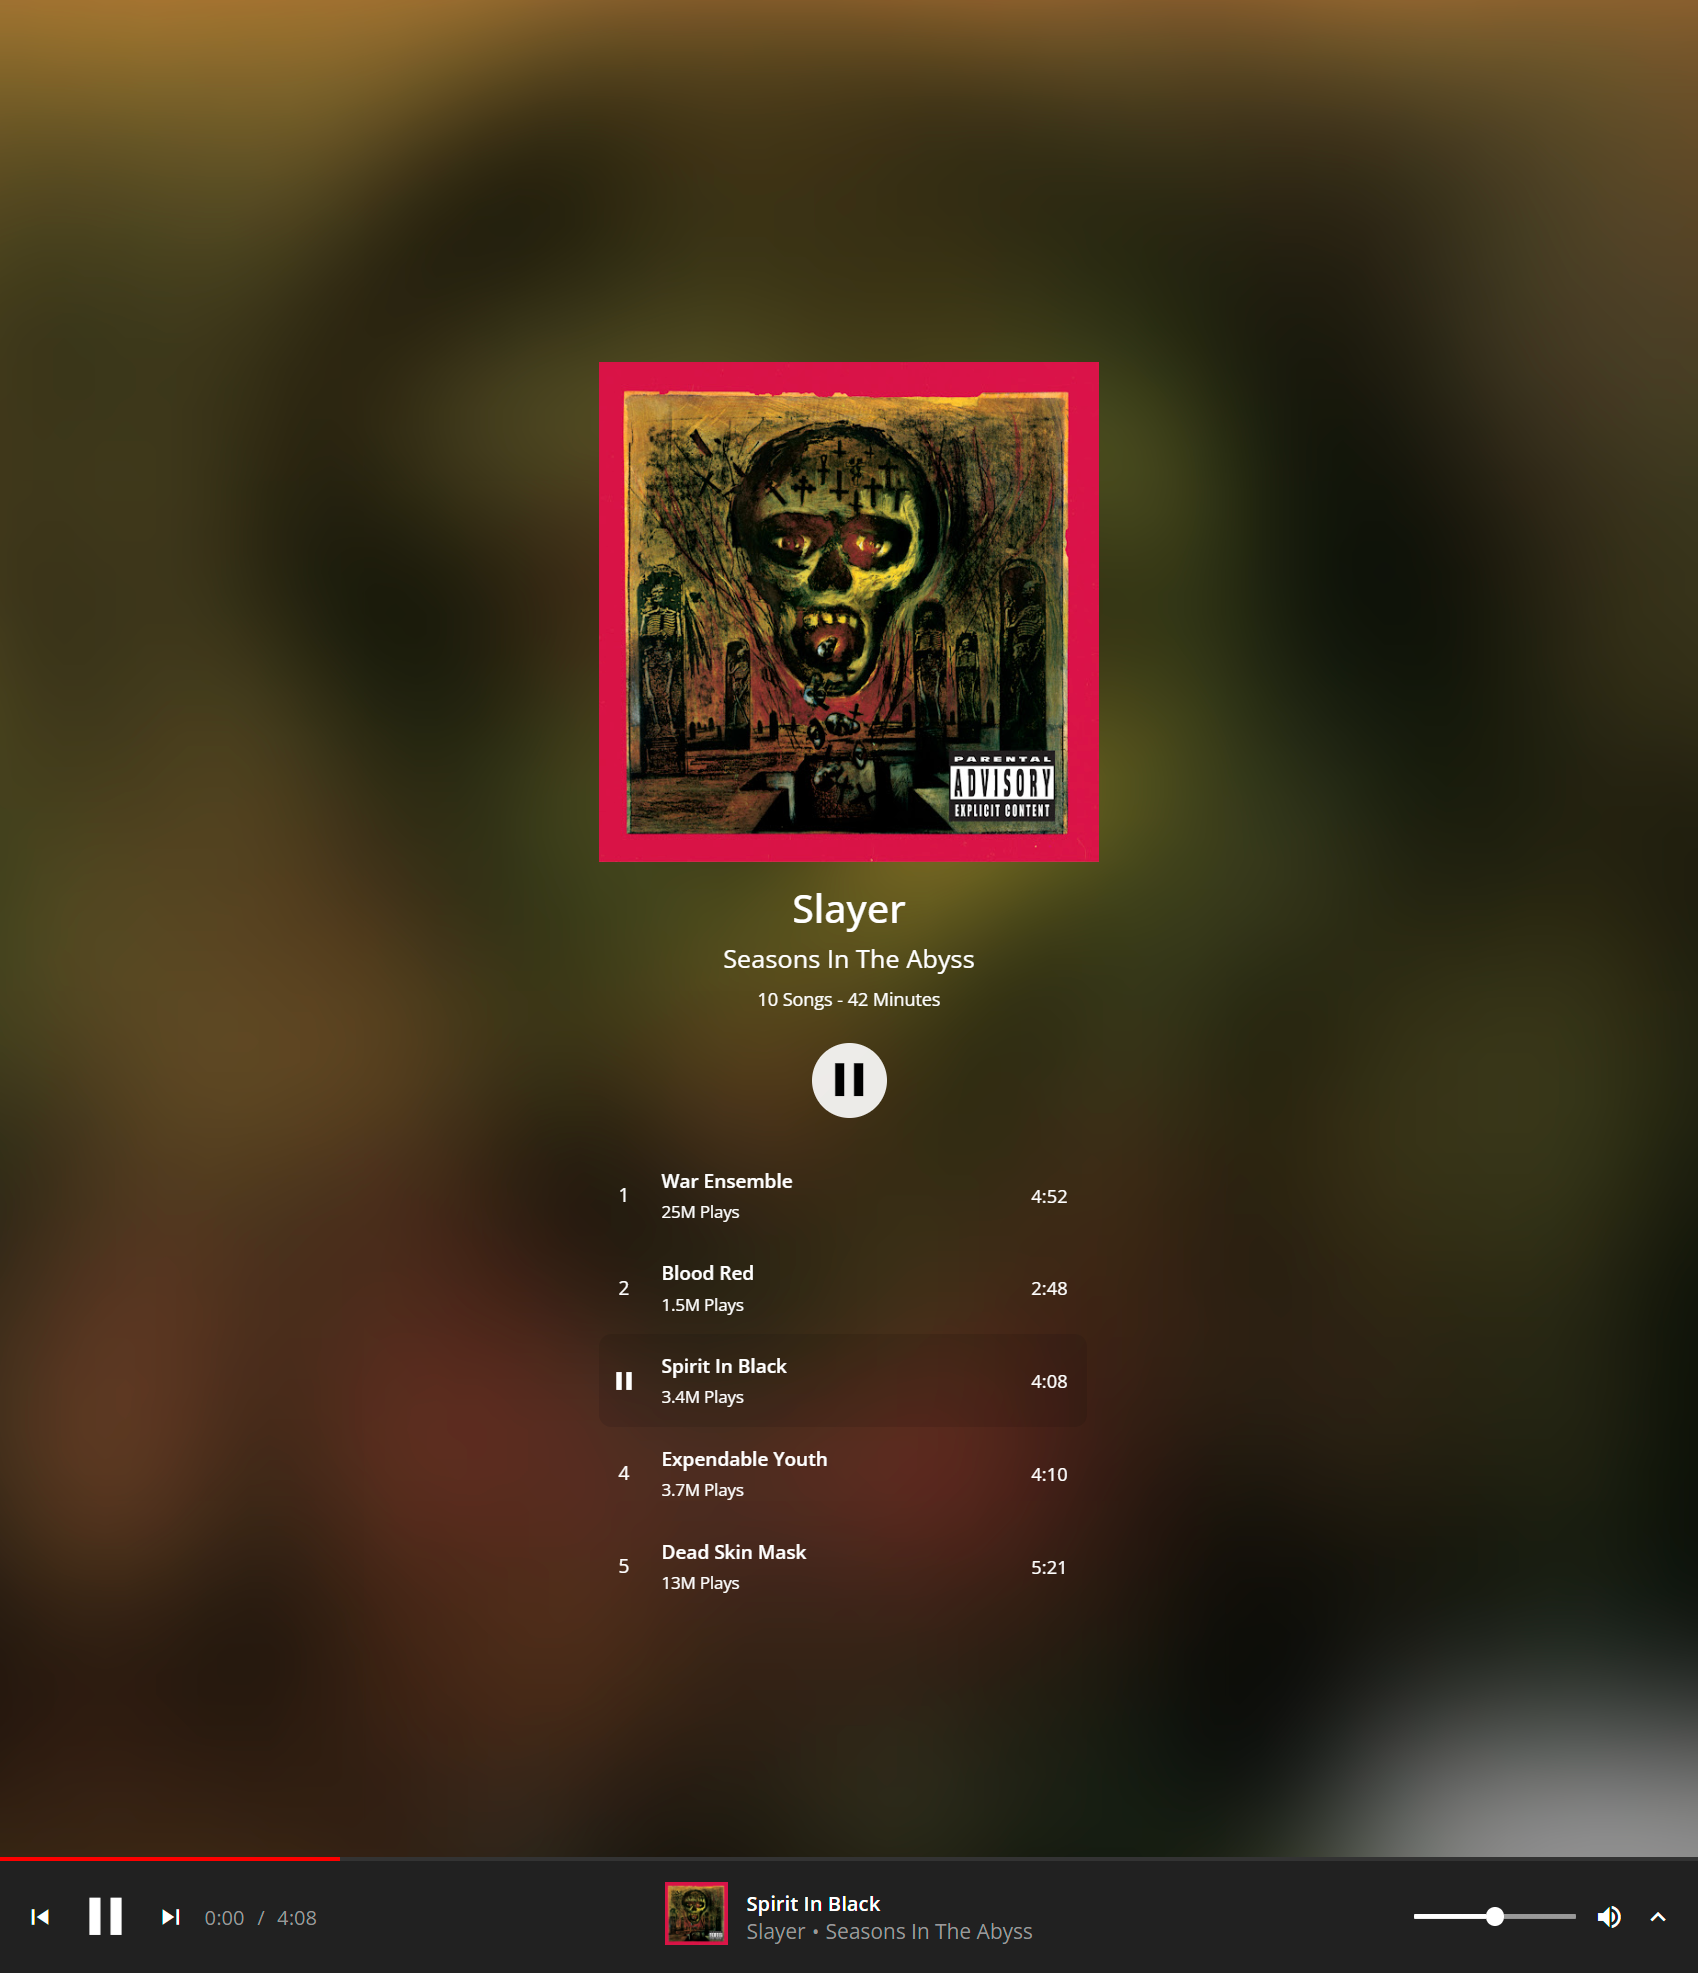
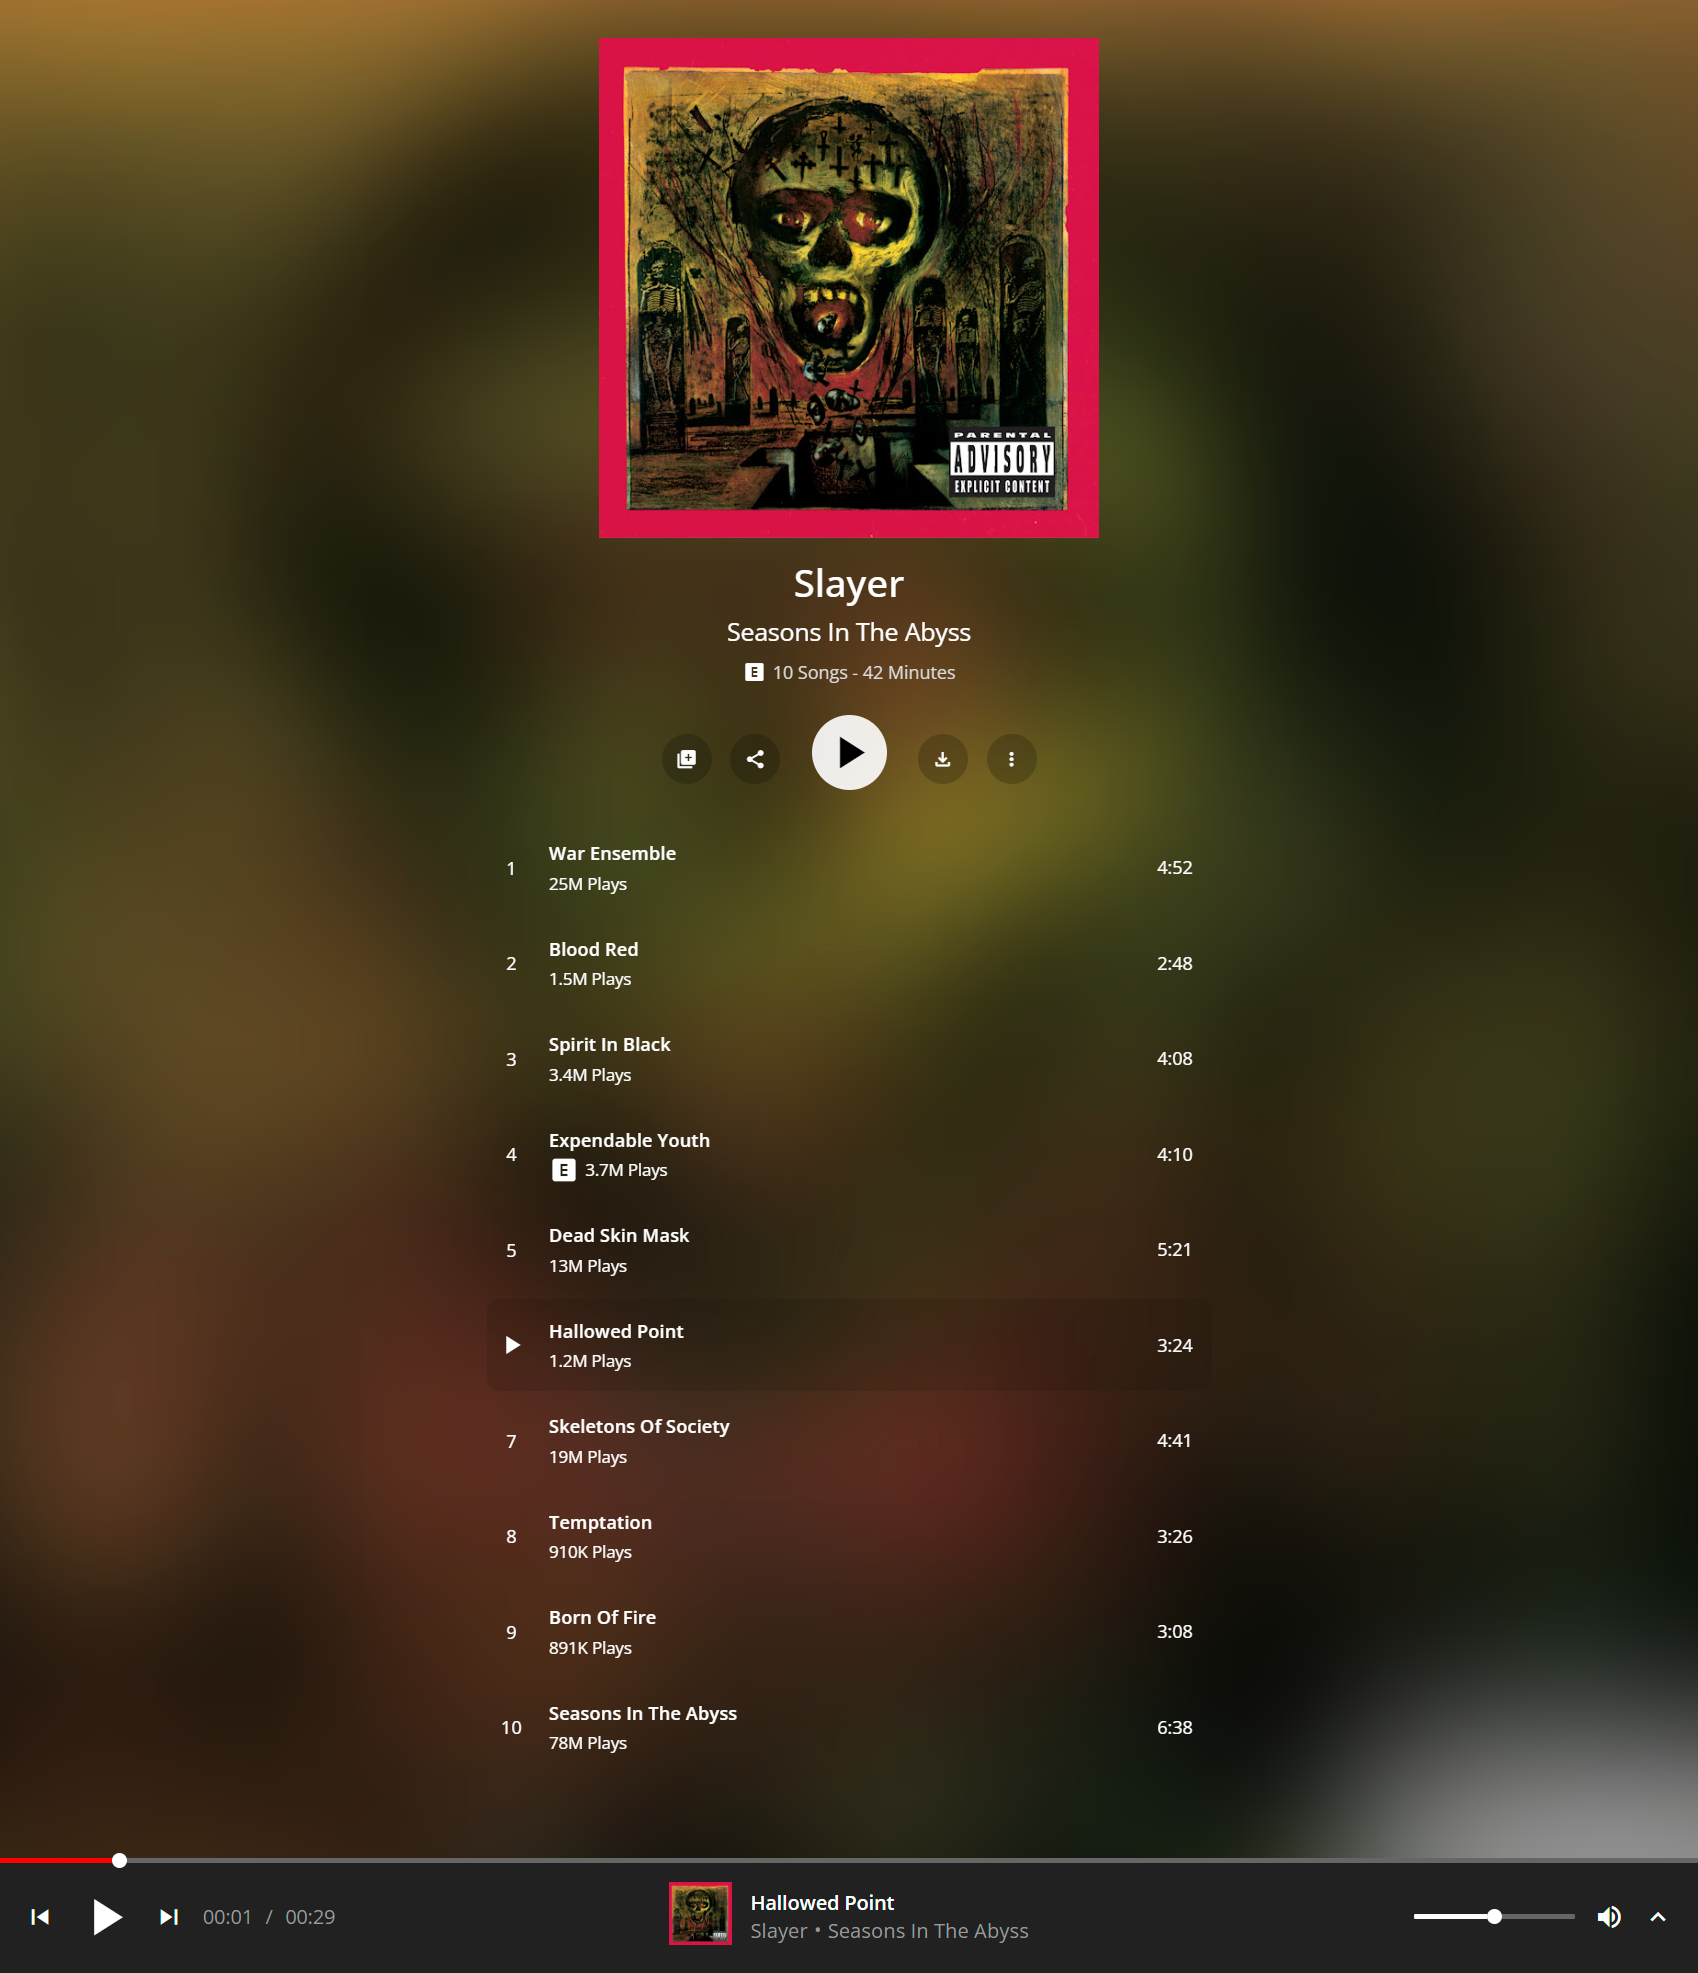
styling

diff --git a/src/components/Information/Buttons.tsx b/src/components/Information/Buttons.tsx
@@ -13,7 +13,18 @@ const Buttons = ({ handlePlayPause }: IProps): React.JSX.Element => {
 
   return (
     <div className='flex flex-gap flex-h-center flex-v-center'>
-      <button type='button' className='flex flex-h-center flex-v-center small active-opacity'>
+      <button
+        type='button'
+        className='flex flex-h-center flex-v-center small active-opacity'
+        title='Add to playlist'
+      >
+        <span className='material-symbols-outlined'>library_add</span>
+      </button>
+      <button
+        type='button'
+        className='flex flex-h-center flex-v-center small active-opacity'
+        title='Share'
+      >
         <span className='material-symbols-outlined'>share</span>
       </button>
       <button
@@ -25,7 +36,18 @@ const Buttons = ({ handlePlayPause }: IProps): React.JSX.Element => {
           {currentState === 'playing' ? 'pause' : 'play_arrow'}
         </span>
       </button>
-      <button type='button' className='flex flex-h-center flex-v-center small active-opacity'>
+      <button
+        type='button'
+        className='flex flex-h-center flex-v-center small active-opacity'
+        title='Download'
+      >
+        <span className='material-symbols-outlined'>download</span>
+      </button>
+      <button
+        type='button'
+        className='flex flex-h-center flex-v-center small active-opacity'
+        title='More'
+      >
         <span className='material-symbols-outlined'>more_vert</span>
       </button>
     </div>

diff --git a/src/styles/player.css b/src/styles/player.css
@@ -141,6 +141,7 @@ p {
 .material-symbols-outlined {
   user-select: none;
   --webkit-user-select: none;
+  line-height: 0;
   font-weight: normal !important;
   font-variation-settings:
     'FILL' 1,
@@ -351,8 +352,15 @@ strong,
 
 .information .album .album-info {
   margin-top: 5px;
+}
+
+.information .album .album-info em {
   color: #dadada;
   font-size: 0.75em;
+}
+
+.information .album .album-info span {
+  font-size: 1em;
 }
 
 .information .album a:hover {
@@ -362,8 +370,8 @@ strong,
 .information .play-button {
   width: 60px;
   height: 60px;
-  margin-bottom: 10px;
   border-radius: 50em;
+  margin: 0 10px 10px 10px;
   background-color: rgba(255, 255, 255, 0.9);
 }
 
@@ -375,7 +383,6 @@ strong,
 .information button.small {
   width: 40px;
   height: 40px;
-  margin: 0 10px;
   border-radius: 50em;
   background-color: rgba(0, 0, 0, 0.2);
 }
@@ -416,6 +423,7 @@ strong,
 
 .information .playlist .track .name-button {
   font-weight: 600;
+  text-align: left;
   padding-bottom: 5px;
   justify-content: flex-start;
 }

diff --git a/src/components/Player/Control.tsx b/src/components/Player/Control.tsx
@@ -20,6 +20,7 @@ const Control = ({ prev, next, handlePlayPause }: IProps): React.JSX.Element => 
     <>
       <button
         type='button'
+        title={`Previous song: ${prev?.name}`}
         className={prev ? 'active-opacity' : 'disabled active-opacity'}
         onClick={() => handlePlayPause(prev as ITrack, currentAlbum as IAlbum)}
       >
@@ -36,6 +37,7 @@ const Control = ({ prev, next, handlePlayPause }: IProps): React.JSX.Element => 
       </button>
       <button
         type='button'
+        title={`Next song: ${next?.name}`}
         className={next ? 'active-opacity' : 'disabled active-opacity'}
         onClick={() => handlePlayPause(next as ITrack, currentAlbum as IAlbum)}
       >

diff --git a/src/components/Player/Volume.tsx b/src/components/Player/Volume.tsx
@@ -17,11 +17,16 @@ const Volume = ({ muted, volume, onMutePressed, onVolumeChange }: IProps): React
       type='range'
       value={volume}
       disabled={muted}
-      aria-label='volume'
       className='white'
+      aria-label='volume'
       onChange={(e) => onVolumeChange(Number(e.target.value))}
     />
-    <button type='button' className='active-opacity' onClick={onMutePressed}>
+    <button
+      type='button'
+      onClick={onMutePressed}
+      className='active-opacity'
+      title={muted ? 'Unmute' : 'Mute'}
+    >
       <span className='material-symbols-outlined'>{muted ? 'volume_off' : 'volume_up'}</span>
     </button>
   </div>

diff --git a/src/components/Information/Details.tsx b/src/components/Information/Details.tsx
@@ -18,8 +18,15 @@ const Details = ({ album }: IProps): React.JSX.Element => (
     <Link to='/' className='active-opacity'>
       <span>{album.name}</span>
     </Link>
-    <span className='album-info'>
-      {album.songs} Songs - {album.minutes} Minutes
+    <span className='album-info flex flex-gap-small flex-v-center'>
+      {album.explicit && (
+        <span className='material-symbols-outlined' title='Explicit'>
+          explicit
+        </span>
+      )}
+      <em>
+        {album.songs} Songs - {album.minutes} Minutes
+      </em>
     </span>
   </div>
 );

diff --git a/src/components/Information/TrackLine.tsx b/src/components/Information/TrackLine.tsx
@@ -53,7 +53,14 @@ const TrackLine = ({
       <button type='button' className='name-button' onClick={() => handlePlayPause(track, album)}>
         {track.name}
       </button>
-      <em>{track.playcount} Plays</em>
+      <div className='flex flex-gap-small flex-v-center'>
+        {track.explicit && (
+          <span className='material-symbols-outlined' title='Explicit'>
+            explicit
+          </span>
+        )}
+        <em>{track.playcount} Plays</em>
+      </div>
     </div>
     <span>{track.duration}</span>
   </div>

diff --git a/src/types/types.ts b/src/types/types.ts
@@ -3,17 +3,19 @@ export interface ITrack {
   no: number;
   name: string;
   duration: string;
-  playcount: string;
   mediaurl: string;
+  explicit: boolean;
+  playcount: string;
 }
 
 export interface IAlbum {
   id: string;
   name: string;
-  artist: string;
   songs: number;
-  minutes: number;
   image: string;
+  artist: string;
+  minutes: number;
+  explicit: boolean;
   bandimage: string;
 }
 

diff --git a/src/components/Player/Expand.tsx b/src/components/Player/Expand.tsx
@@ -1,7 +1,7 @@
 import React from 'react';
 
 const Expand = (): React.JSX.Element => (
-  <button type='button' className='active-opacity'>
+  <button type='button' className='active-opacity' title='Expand'>
     <span className='material-symbols-outlined'>keyboard_arrow_up</span>
   </button>
 );
